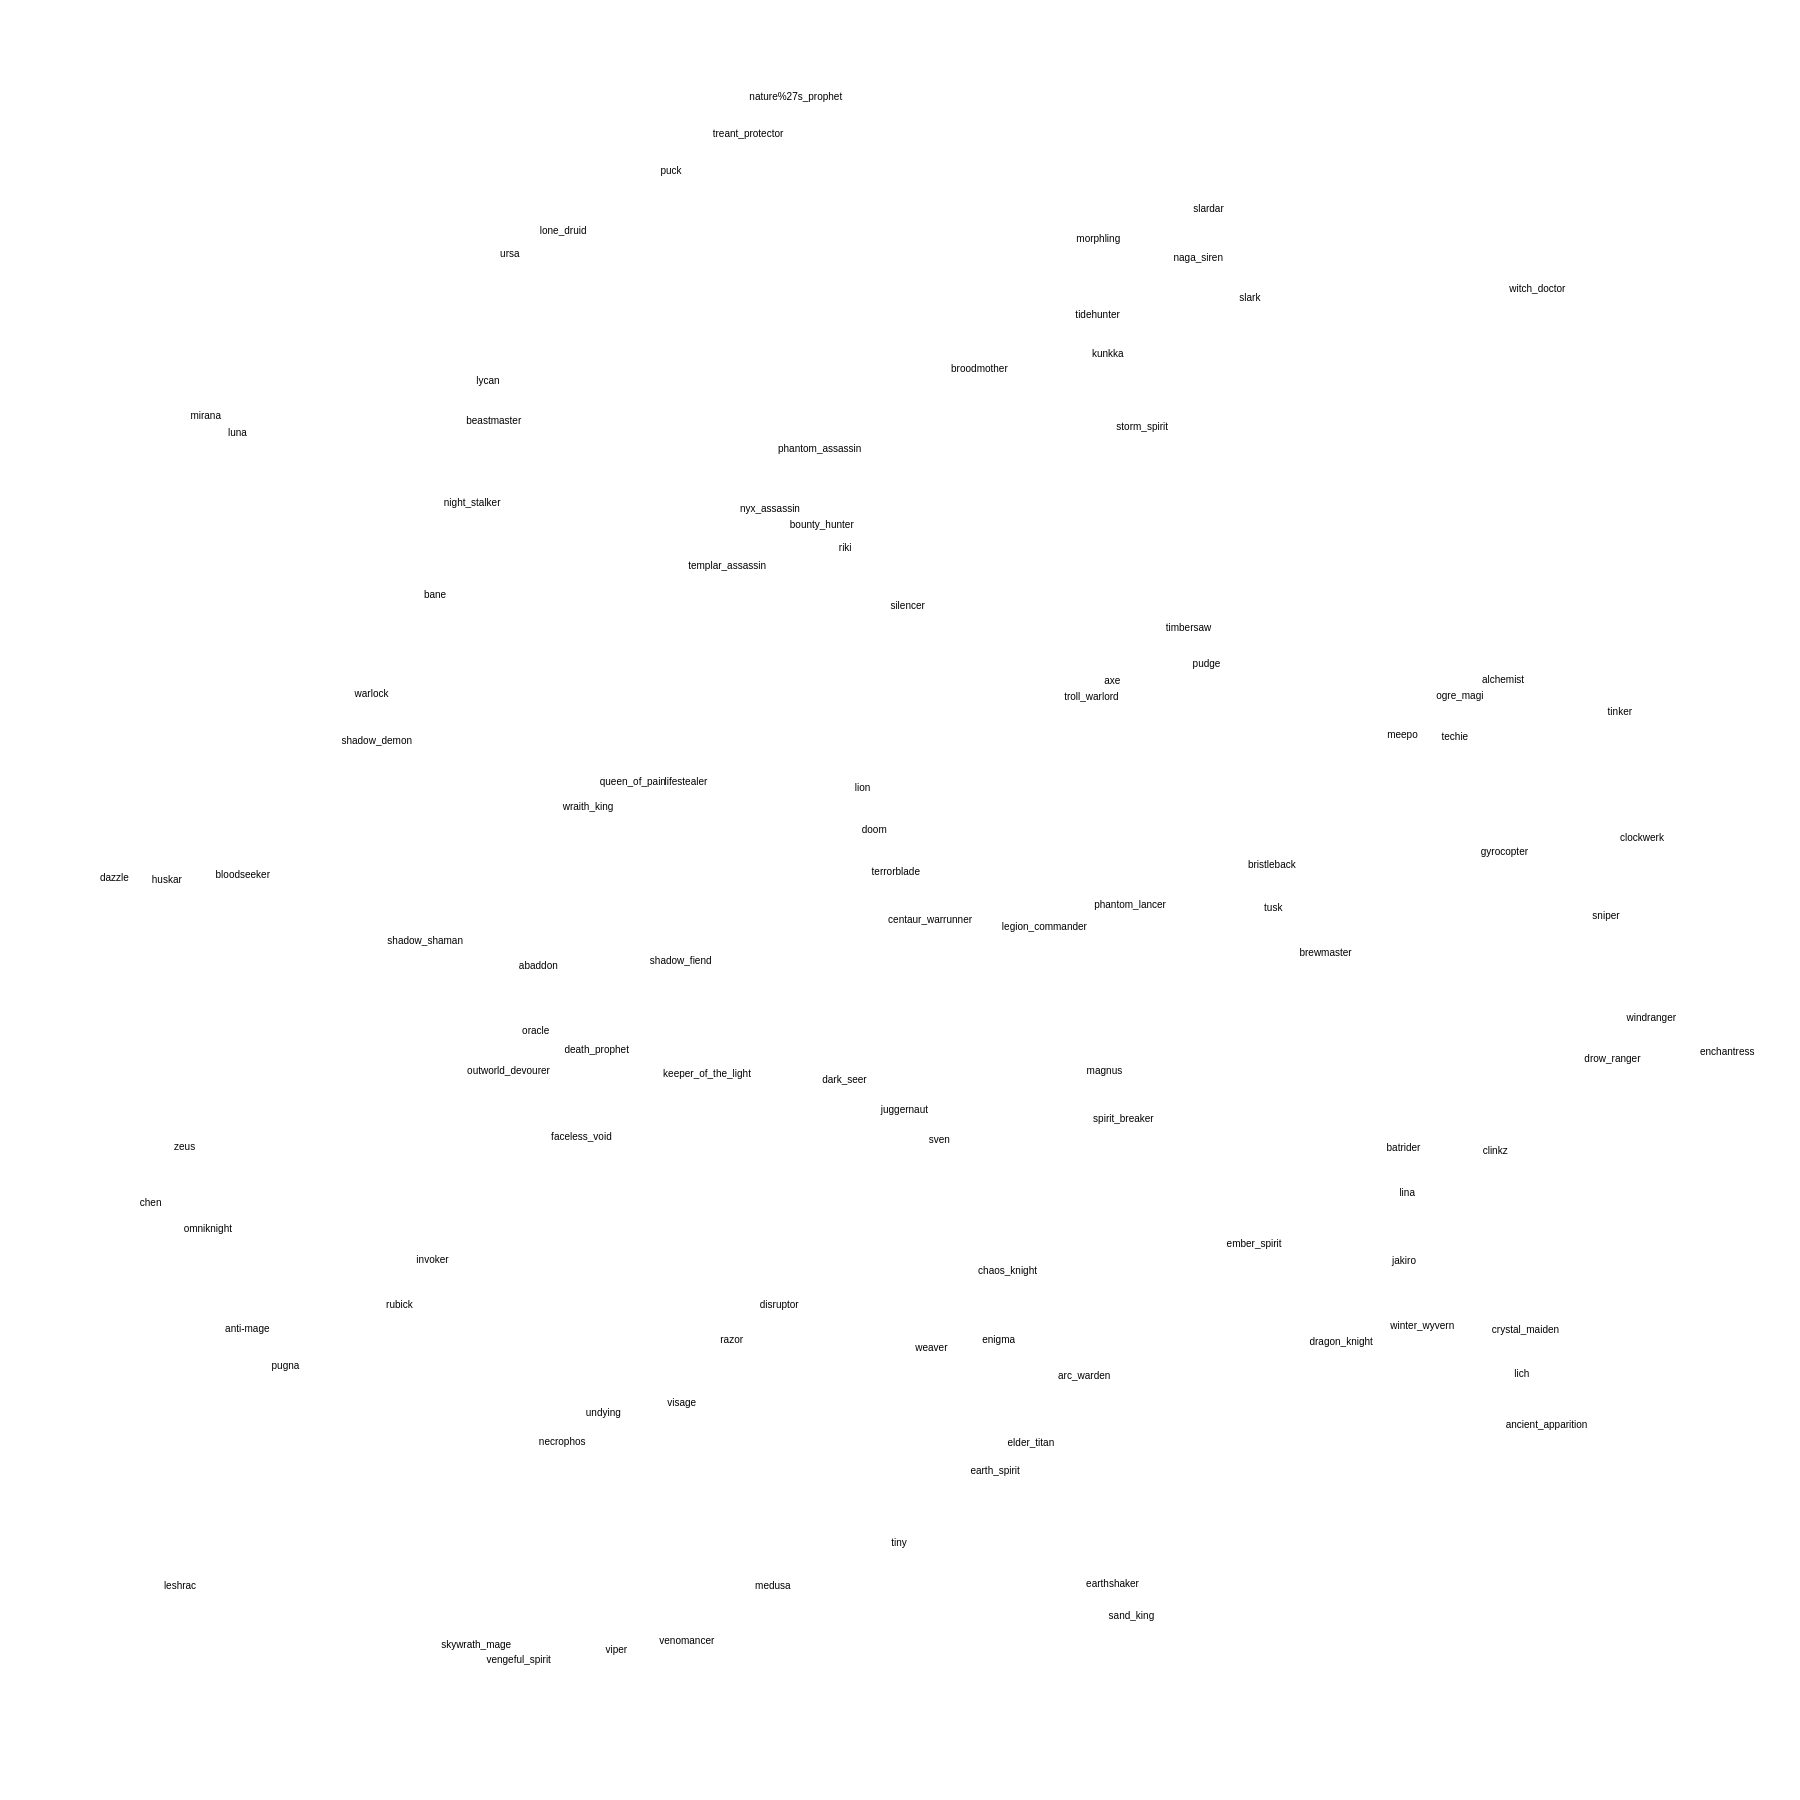
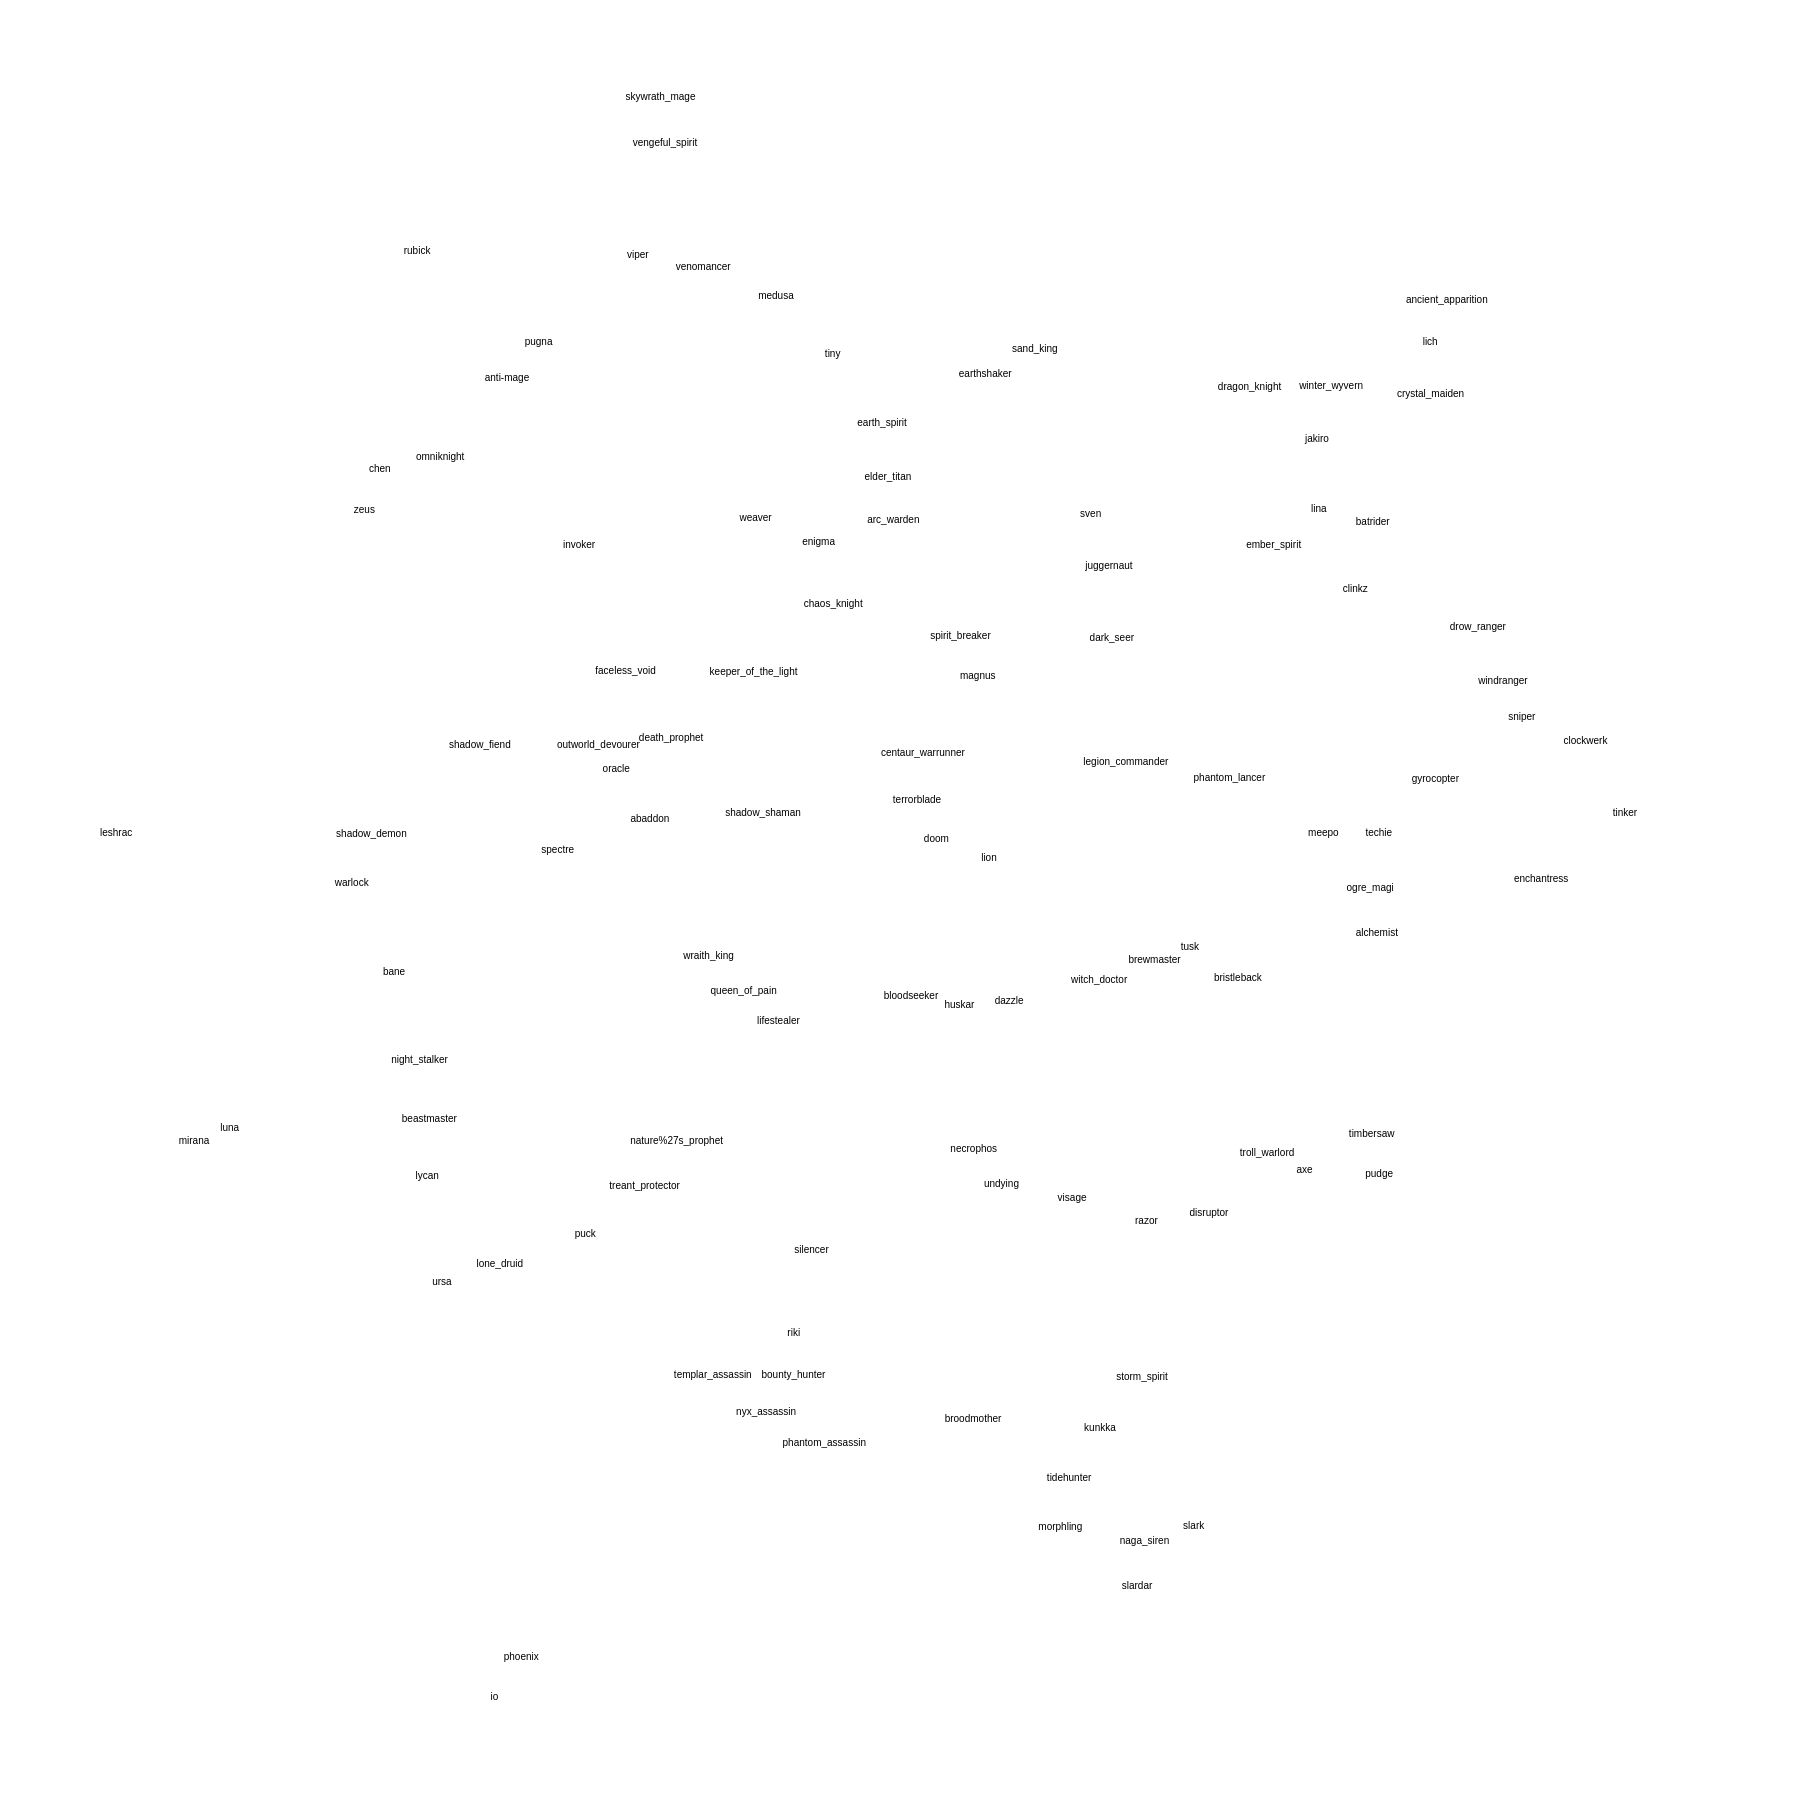
added io, phoenix, spectre

diff --git a/data_vis.js b/data_vis.js
@@ -1,1 +1,1 @@
-data_vis = {"crystal_maiden": [9.1585080033241386, 5.9901403697535889], "night_stalker": [-6.5774887154642991, -6.4303361732133322], "medusa": [-1.9034530952010951, 9.8326827013498725], "doom": [-0.30279436376127045, -1.51394202709734], "undying": [-4.4458497486109083, 7.2282205995337989], "treant_protector": [-2.5393636445744852, -11.965221793464856], "riki": [-0.64663362760217669, -5.7599497006302549], "storm_spirit": [3.5203407950023542, -7.5692551551846874], "tusk": [5.7390225413793763, -0.35332258334107125], "sniper": [10.668022513232524, -0.22983429928611745], "pugna": [-9.1641325954889368, 6.5217521144498445], "ogre_magi": [8.3233742867588294, -3.5364752309171417], "jakiro": [7.6608693832760384, 4.9493384758795607], "windranger": [11.181286500578729, 1.3081514755814583], "dark_seer": [-0.89604430113199884, 2.2400198131733031], "ancient_apparition": [9.3661825125719051, 7.4094927689008472], "morphling": [2.919374624645068, -10.396953549170306], "shadow_demon": [-8.115037571688374, -2.8540157743948997], "shadow_shaman": [-7.4250152810173322, 0.14070595539667957], "batrider": [7.5776377287437438, 3.2584511031609686], "anti-mage": [-9.8618877376366356, 5.9792435924865464], "kunkka": [3.1547767266279796, -8.6742605983415597], "phantom_lancer": [3.18787483562468, -0.3982210315577393], "weaver": [0.50127898627262801, 6.2521379286499137], "outworld_devourer": [-6.2282070780252328, 2.098402234563884], "clinkz": [9.0208202824889323, 3.295896711467845], "earthshaker": [3.0664431896093718, 9.797960265232307], "lion": [-0.40594522766686181, -2.1437712230882959], "necrophos": [-5.1504820624480177, 7.664215552454289], "winter_wyvern": [7.634344574569262, 5.9332418591148377], "disruptor": [-1.83334915794322, 5.6109565138982047], "abaddon": [-5.4508110178502598, 0.52334563521822186], "invoker": [-6.9895309565436676, 4.9293854807898674], "juggernaut": [-0.01701479248875612, 2.6841938949895043], "templar_assassin": [-2.9082491303849847, -5.4872373033410389], "ursa": [-5.7319834809796824, -10.173760627330717], "lycan": [-6.0908779892908225, -8.2611218109235267], "meepo": [7.5867090635666505, -2.9407496433018316], "elder_titan": [1.8869496267806554, 7.683177470701378], "vengeful_spirit": [-5.93785144882344, 10.9461570367903], "tinker": [10.896463570120824, -3.2973252236143971], "broodmother": [1.0387854615132859, -8.449105969057328], "centaur_warrunner": [0.093335378788174161, -0.17592247022718155], "huskar": [-10.962014195584466, -0.76850122158050727], "witch_doctor": [9.4210319675922776, -9.6445514699243731], "omniknight": [-10.484179217976131, 4.4658492076458796], "terrorblade": [-0.15447276030450866, -0.89100351298613611], "alchemist": [9.0094475879500546, -3.7699507143647062], "slark": [5.3668129671463856, -9.5008833656501306], "mirana": [-10.382781360362417, -7.7409684743205691], "nature%27s_prophet": [-1.9897787587481199, -12.526190698262058], "lifestealer": [-3.2637848872575987, -2.2445784409203573], "dragon_knight": [6.4202221876183243, 6.1635833671724853], "techie": [8.4023853356084217, -2.9193320455642717], "puck": [-3.3257320091811389, -11.420271598522245], "arc_warden": [2.6454142356547083, 6.6706893510151257], "lone_druid": [-5.1365973722839069, -10.521133055448372], "luna": [-9.8180625330670317, -7.4827526861363554], "razor": [-2.4262615352634862, 6.1395741793779424], "skywrath_mage": [-6.6178149658793251, 10.70967738923988], "tiny": [0.14138750740077921, 9.1801113400773247], "pudge": [4.6657064072199574, -4.0119126120415354], "spirit_breaker": [3.1717724698677459, 2.8245037453857194], "phantom_assassin": [-1.5600849979698665, -7.2349508874667077], "zeus": [-10.62811068666157, 3.2459914604971658], "gyrocopter": [8.9924817227119949, -1.1879686384506427], "silencer": [0.12796714319928709, -4.8831285243039382], "enigma": [1.5067911010950483, 6.1385759452446784], "bounty_hunter": [-1.3828493118410488, -6.0951061413588778], "lina": [7.7702723692910052, 3.9334363770656458], "sand_king": [3.4042854787099142, 10.289043624469786], "brewmaster": [6.2698897454997295, 0.32332125309712123], "wraith_king": [-4.7914825249879867, -1.8686334871749586], "clockwerk": [11.083573191836299, -1.3959779780874892], "faceless_void": [-4.9663041365511731, 3.0948373074762019], "bristleback": [5.496584119298876, -0.99845356525823803], "lich": [9.4949915864845025, 6.6492661161768574], "warlock": [-7.9177357906080559, -3.5569435737563881], "visage": [-3.222202876083081, 7.0853493099311589], "keeper_of_the_light": [-3.2851894426997927, 2.1417013357981962], "legion_commander": [1.8017993009202957, -0.060710856623938797], "slardar": [4.6743659011398195, -10.84363635379939], "death_prophet": [-4.7663555898163859, 1.7786761979416073], "chen": [-11.142099317665597, 4.0850319480609478], "tidehunter": [2.9050159752022053, -9.2475765191019956], "earth_spirit": [1.3291293900658208, 8.1053687667211314], "rubick": [-7.4442446587745836, 5.6116151076295155], "enchantress": [12.284148151097508, 1.8073593270336068], "dazzle": [-11.739825572218619, -0.7944773187562052], "timbersaw": [4.2614269666076794, -4.5502619428306081], "troll_warlord": [2.7370117006543788, -3.5144977032214006], "magnus": [3.0742975576050191, 2.1044613994318295], "chaos_knight": [1.4443752191457191, 5.0986341766051302], "queen_of_pain": [-4.2363367407433117, -2.2460324046349163], "nyx_assassin": [-2.1318311840427548, -6.3443197955670882], "venomancer": [-3.342557006424892, 10.659111616596991], "leshrac": [-10.78065864704282, 9.8279227258694952], "beastmaster": [-6.2409058880413255, -7.6584379683859547], "bloodseeker": [-10.005134750686633, -0.83937754506281614], "sven": [0.70231405697663185, 3.1392241595789847], "drow_ranger": [10.54801288852738, 1.9250512328682361], "bane": [-6.8764080650517876, -5.0544718778687114], "viper": [-4.1493603611800358, 10.796188275216947], "naga_siren": [4.378735823976716, -10.108613994525065], "shadow_fiend": [-3.4842367680247373, 0.44633033749302781], "axe": [3.3393950741431864, -3.754204993606951], "oracle": [-5.4023615734614774, 1.4937971210754284], "ember_spirit": [5.1760916890267836, 4.6994982570533343]}
+data_vis = {"crystal_maiden": [8.5573544432165427, -7.9168214476662273], "night_stalker": [-8.4061237904868626, 3.321011999280048], "medusa": [-2.2165397640427797, -9.5599066635926508], "doom": [0.57834890011239981, -0.40950314588549935], "undying": [1.5916794670583374, 5.4220982663022994], "treant_protector": [-4.7266473137469704, 5.4413290708837083], "riki": [-1.7240754245220233, 7.9259437988442416], "storm_spirit": [3.8224382152032312, 8.6688015507000102], "tusk": [4.91061087564443, 1.4117813795055818], "sniper": [10.433969050665107, -2.4624674022604354], "pugna": [-6.1551990097463243, -8.7892651685237766], "ogre_magi": [7.7079088829245181, 0.41821493271236504], "jakiro": [7.0071284144161519, -7.1441723257337806], "windranger": [9.9285946166112868, -3.0640066358793847], "dark_seer": [3.3739286157774582, -3.7958907257987384], "ancient_apparition": [8.710948414308989, -9.4950684756673986], "morphling": [2.5092059277863341, 11.192744577072945], "shadow_demon": [-9.3350971536123151, -0.49577307362015249], "shadow_shaman": [-2.773067233498093, -0.84804639971019857], "batrider": [7.8640852142431257, -5.7554046328082231], "anti-mage": [-6.8280969731215784, -8.1795004479059727], "kunkka": [3.2812278822515433, 9.5249796352106113], "phantom_lancer": [5.1275152304704035, -1.4391159086439664], "weaver": [-2.5316589686100643, -5.8123118704082666], "outworld_devourer": [-5.6098517996052548, -1.9859455893265716], "clinkz": [7.6445947146333095, -4.6271170584144468], "earthshaker": [1.1680380687552816, -8.2440553044806393], "lion": [1.5454701822664556, -0.077255994678987486], "necrophos": [1.0258392451735292, 4.8262565543547611], "winter_wyvern": [6.9088465382708177, -8.0507610508406309], "disruptor": [5.0597346503709071, 5.8985042128870733], "venomancer": [-3.6084760765256538, -10.052840298394569], "abaddon": [-4.3707939521121331, -0.73933437951067049], "invoker": [-5.5089399291759982, -5.3631135481160435], "juggernaut": [3.3012201288674703, -5.004526759932924], "templar_assassin": [-3.6380786561253267, 8.6350169740859322], "ursa": [-7.7152154991173276, 7.0717288909165603], "lycan": [-7.9950033149674207, 5.2815147609617377], "meepo": [7.0596976308906978, -0.50144447130210024], "elder_titan": [-0.42183597301832026, -6.5150179440193074], "vengeful_spirit": [-4.3324832200145744, -12.13983448912926], "tinker": [12.196978697859091, -0.84561460074171779], "broodmother": [0.92962703448007411, 9.3741990471843089], "centaur_warrunner": [-0.14562310474149789, -1.849453787711302], "huskar": [0.92507002466548027, 2.3968762358059887], "witch_doctor": [3.062229388244003, 1.9770803991787382], "omniknight": [-7.988405211737204, -6.8554776722712454], "terrorblade": [0.055069345687951923, -1.0570430839603506], "alchemist": [7.8621731833792108, 1.1747805260241593], "slark": [4.9513118934657498, 11.179517800365405], "mirana": [-11.990745103714785, 4.6831640474523537], "nature%27s_prophet": [-4.3751787973664342, 4.6936561804267525], "lifestealer": [-2.2357261824791599, 2.6607270548034223], "dragon_knight": [5.5378384672711691, -8.023145938452144], "techie": [8.0260631349378002, -0.5108001354534224], "puck": [-5.3116491077346177, 6.252012623750292], "arc_warden": [-0.3767626743248822, -5.7917621117047702], "lone_druid": [-6.9683363685387256, 6.7713678930052357], "luna": [-11.289871325523976, 4.4628069648665649], "razor": [4.1397915415466837, 6.0419279392404359], "skywrath_mage": [-4.454647169634196, -12.919998454443657], "tiny": [-1.0914057920673677, -8.5921064065118706], "pudge": [8.0229256827762363, 5.2471866879851792], "spirit_breaker": [0.68494327908962305, -3.8321871260499942], "phantom_assassin": [-1.8047326463705975, 9.7864535102338159], "zeus": [-9.036706201259511, -5.9544378734845038], "gyrocopter": [8.8076287073919293, -1.4112440959184167], "silencer": [-1.6069928583159079, 6.5358500884329329], "enigma": [-1.4741650920607716, -5.4108683433067055], "bounty_hunter": [-2.1608917123142004, 8.6352517689087787], "lina": [7.1080156227590257, -5.9675857046933416], "sand_king": [2.0662956910607639, -8.6650601374627136], "brewmaster": [4.0289548523859677, 1.6421764036781945], "wraith_king": [-3.4801003855067814, 1.5643696127791733], "clockwerk": [11.368506296052903, -2.055167451972006], "faceless_void": [-4.9640292537568982, -3.2362826150281574], "bristleback": [5.4722385002217031, 1.9376027588812794], "lich": [8.9920739523999362, -8.7915753633736262], "warlock": [-9.3584650071996656, 0.33755081272318443], "visage": [2.8346234080309691, 5.6437994932393041], "keeper_of_the_light": [-3.0351278782035425, -3.2128182044825468], "legion_commander": [3.2681540505291244, -1.7044240885463138], "slardar": [3.9165701142317468, 12.201939004985251], "death_prophet": [-4.2289117581393496, -2.1082621424137264], "chen": [-8.7805836149326097, -6.6458204454710934], "tidehunter": [2.6533839891229412, 10.373838822126226], "io": [-6.7319601134797873, 14.068123920488658], "earth_spirit": [-0.54458625560181817, -7.4157726110770232], "spectre": [-5.8741326562849894, -0.21883364688055798], "rubick": [-8.1949740417457253, -10.329553530992969], "enchantress": [10.530851486043094, 0.26806406167417096], "dazzle": [1.7731249800539823, 2.3356741925620992], "timbersaw": [7.7473779181042817, 4.5634852548733305], "troll_warlord": [5.9082457433756481, 4.894950368708896], "magnus": [1.1869249788628691, -3.15658452197404], "chaos_knight": [-1.4476689392435806, -4.3610672156905954], "queen_of_pain": [-3.0198314751296742, 2.1605824128986764], "nyx_assassin": [-2.5883097802499986, 9.2570493082676126], "phoenix": [-6.5076653073578168, 13.394313539515975], "leshrac": [-13.317923560879276, -0.50762334915879992], "beastmaster": [-8.2272369409840707, 4.3174590471278407], "bloodseeker": [-0.097716925231861762, 2.2384701854644908], "sven": [3.2143192955335413, -5.8898135693682088], "drow_ranger": [9.4489013147286958, -3.9852519454928972], "bane": [-8.5461044435495026, 1.845914478229103], "viper": [-4.4290479000269682, -10.260560700197091], "naga_siren": [3.8824907005868257, 11.433586240221286], "shadow_fiend": [-7.4312958362617128, -1.9927224208547134], "axe": [6.8621742796148268, 5.1783800770681632], "oracle": [-4.8407018461482272, -1.5904294740525349], "ember_spirit": [6.0146596066015396, -5.3587913554485258]}

diff --git a/tfidf_tsne.py b/tfidf_tsne.py
@@ -13,7 +13,9 @@ from jitter import jitter
 #reading in the crap, minor preprocessing
 responses = []
 lemmatizer = WordNetLemmatizer() #lemmatising so arrows -> arrow, hells -> hell, etc.
-baddies = set(['Spectre', 'Phoenix\n', 'Io\n'])
+# baddies = set(['Spectre', 'Phoenix\n', 'Io\n'])
+# test to see if spectre and io and phoenix would work
+baddies = set([])
 with open('data') as f:
 	for line in f:
 		words = line.split(' ')

diff --git a/jitter.py b/jitter.py
@@ -1,7 +1,7 @@
 import numpy as np
 
 # apply a small jitter so things don't completely overlap
-def jitter(data_dict, ratio_sep_dist = 1.0 / 40):
+def jitter(data_dict, ratio_sep_dist = 1.0 / 36):
   def get_max_length(data_dict):
     x_min = 99999
     x_max = -99999
